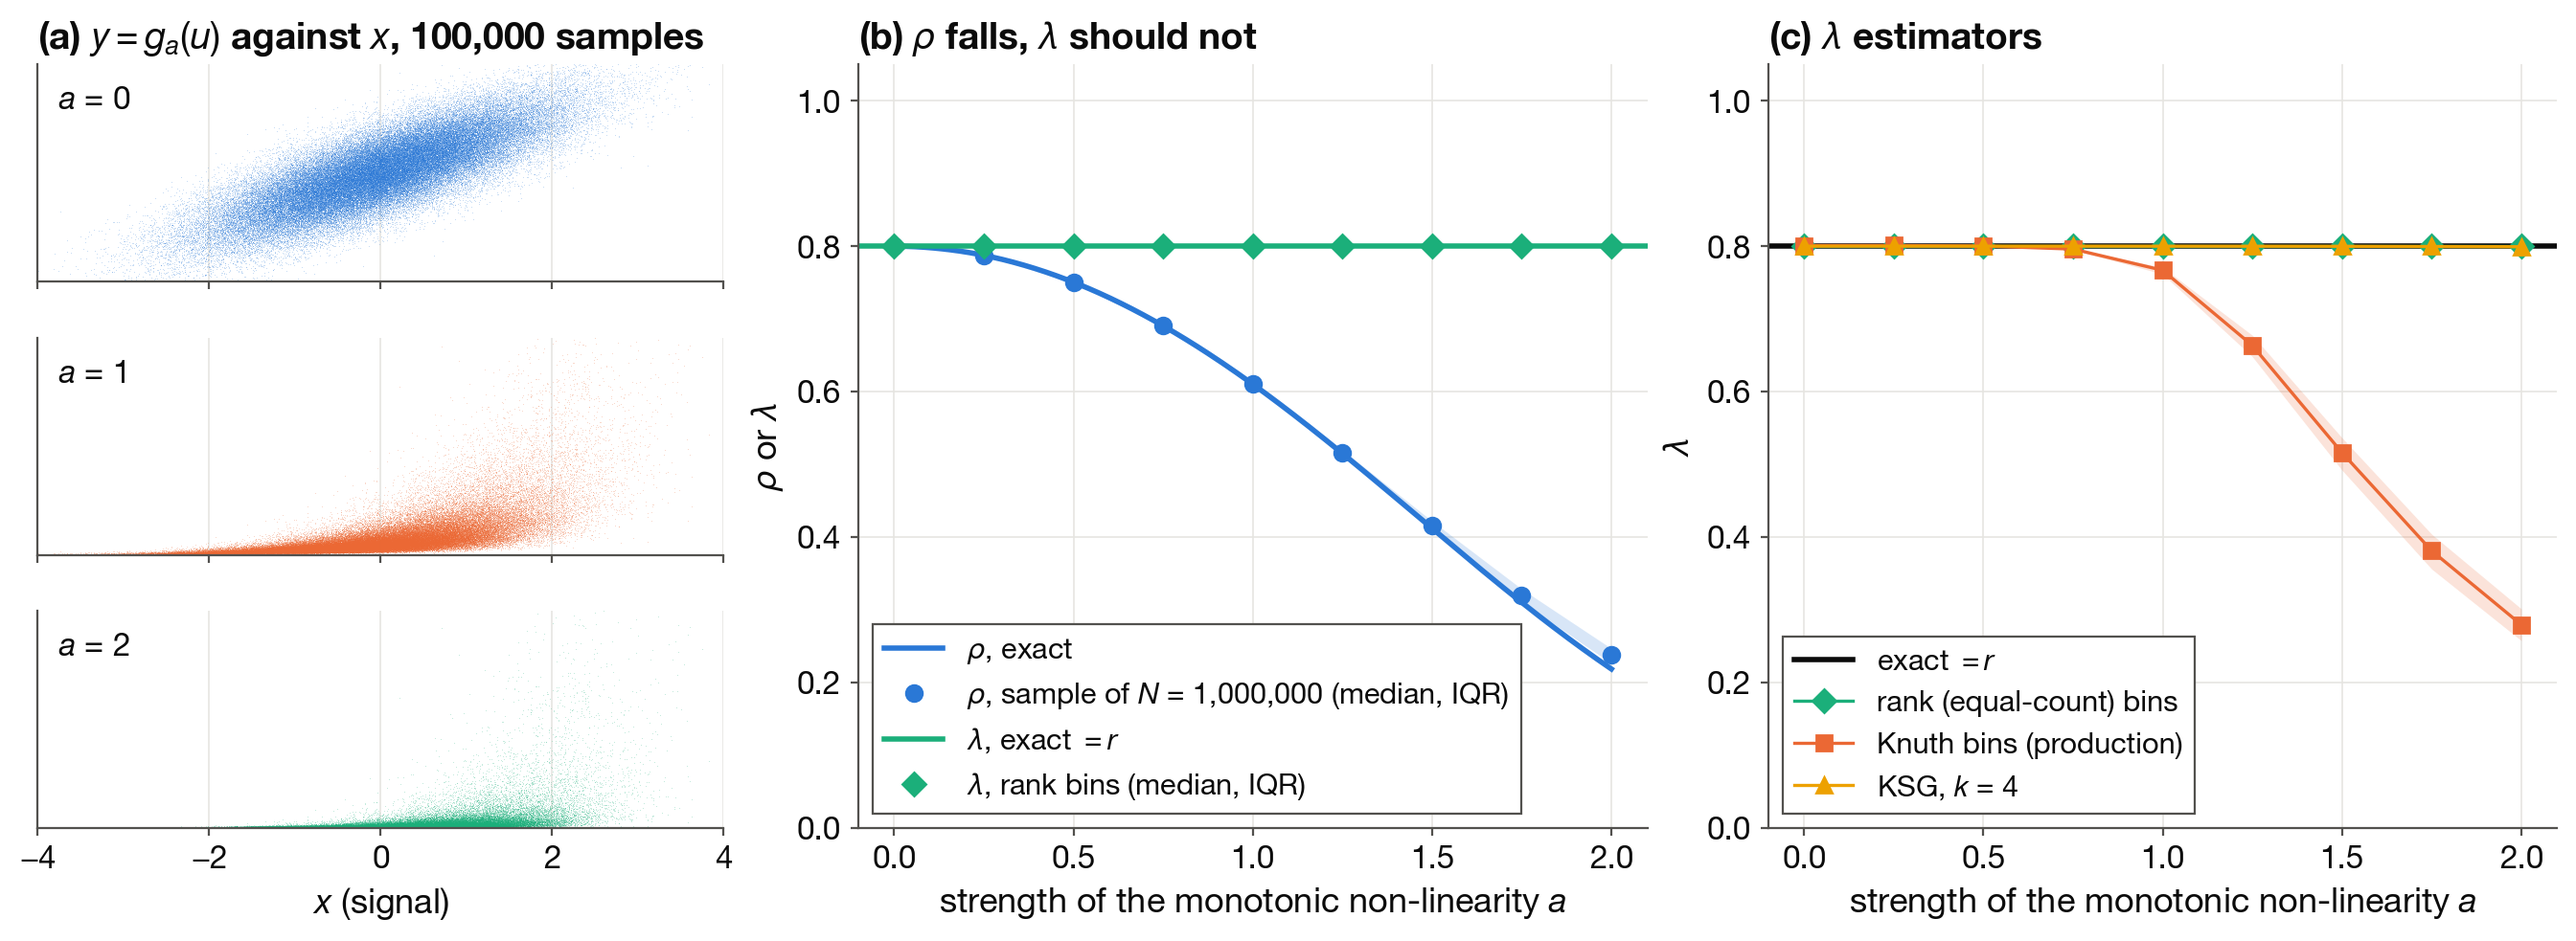
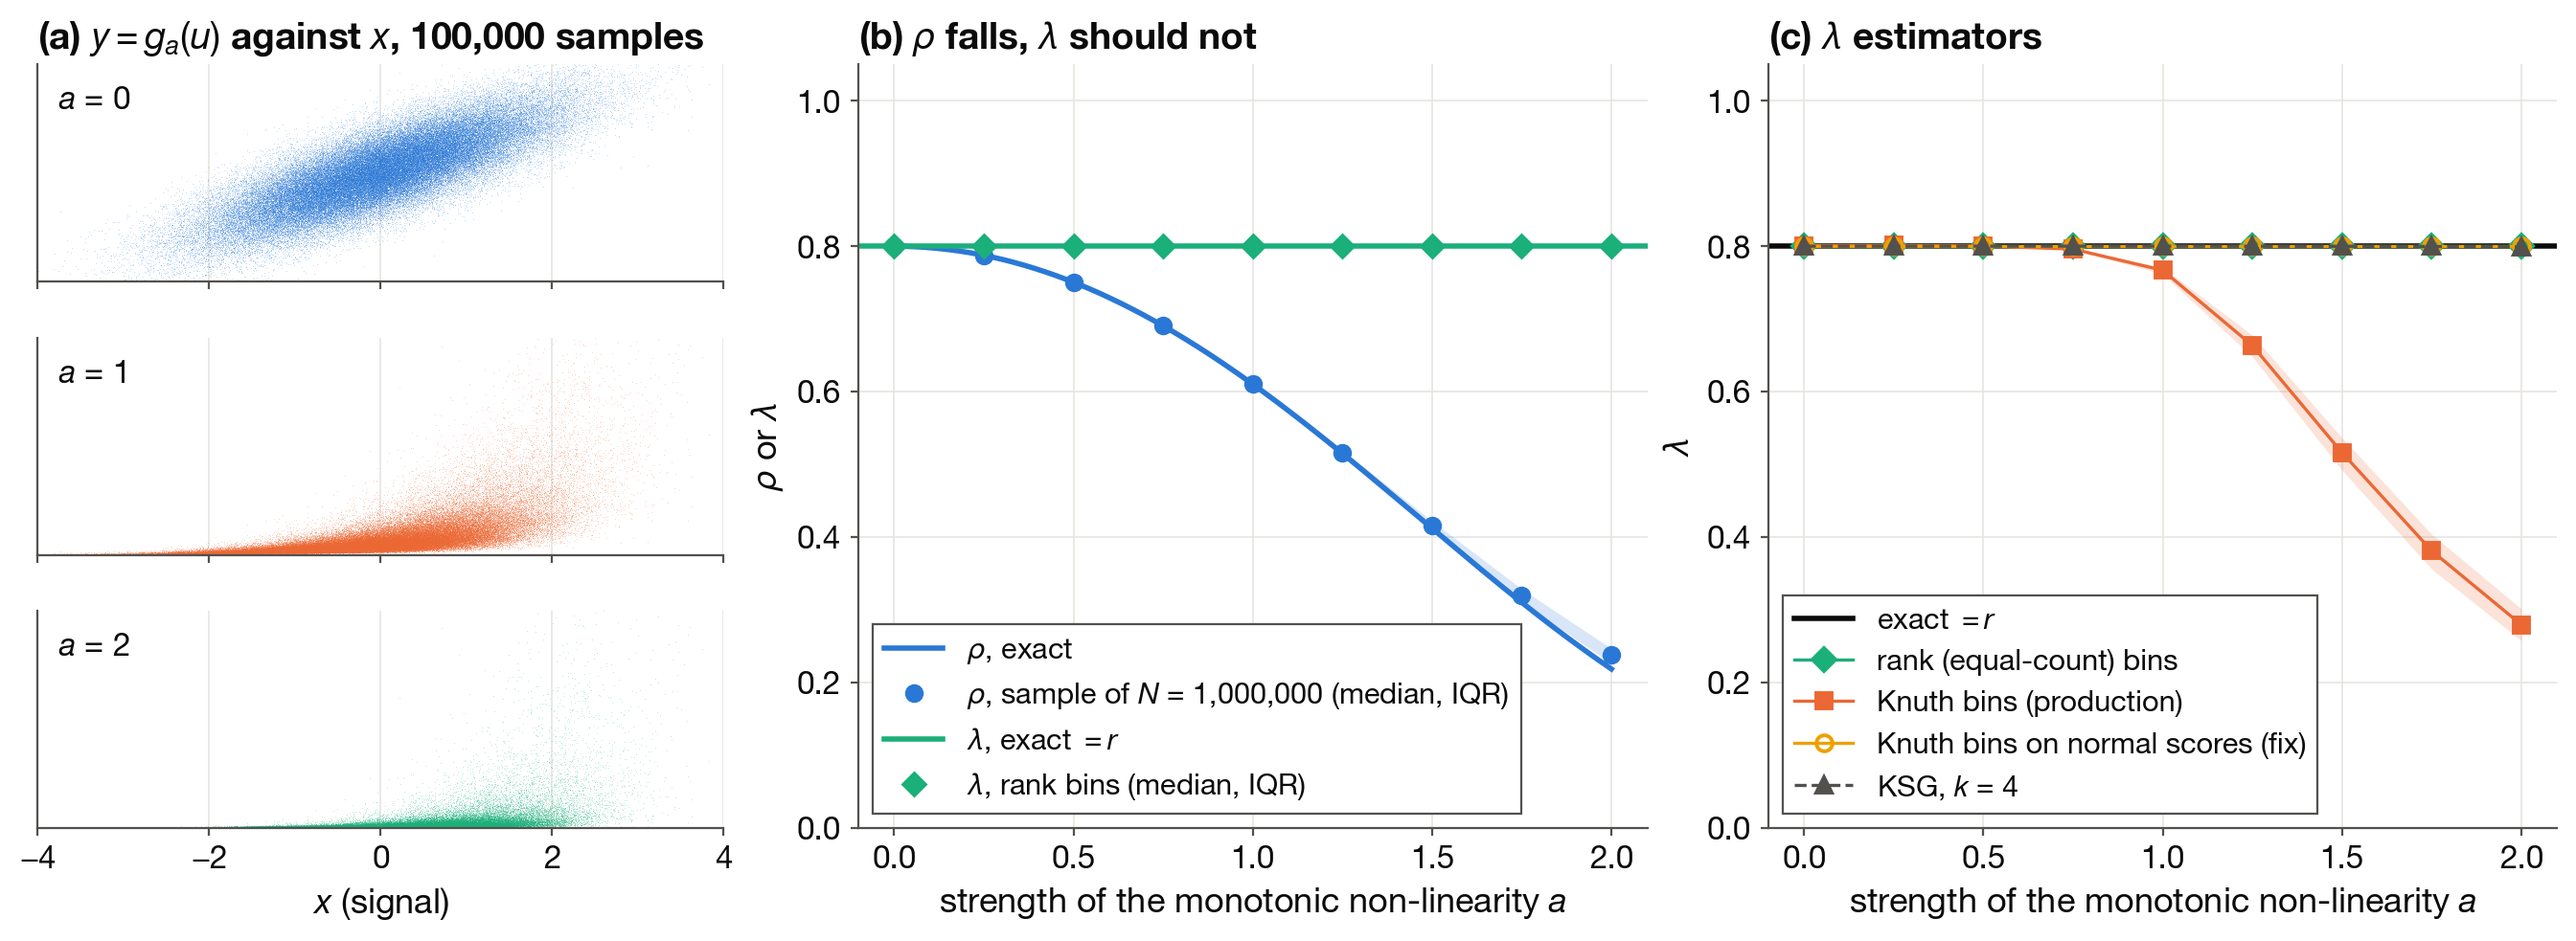
monotonic_demo: Knuth lambda on normal scores, the proposed fix, next to the production estimator
The production Knuth lambda after a rank transform of x and y to normal scores is exactly the
same at every a (0.801 at N = 1e6; 0.726 and never 0 at N = 51), against the production
0.80 -> 0.28 at N = 1e6 and 16-26% zeros at N = 51. Knuth on plain ranks picks one bin (lambda = 0).

Changed region(s): [[0.6872, 0.6409, 0.9059, 0.824], [0.6872, 0.2442, 0.9996, 0.2747], [0.6872, 0.824, 0.7185, 0.8545]]

diff --git a/scripts/monotonic_demo.py b/scripts/monotonic_demo.py
@@ -23,6 +23,12 @@ single bin for a variable in 14-28% of draws and lambda is then exactly 0.
                  only ranks, which g_a keeps, so it is the same number at every a (exactly flat)
     lambda Knuth the production estimator (jugaad, boot olmloo): plug-in MI in bits on equal-width
                  bins, Knuth's bin count for each variable on its own N values (cap min(KNUTH_MAX, N))
+    lambda Knuth, normal scores
+                 the production estimator after a rank transform of each variable to normal scores
+                 (Phi^-1 of (rank - 1/2)/N): Gaussian marginals, so Knuth's count is sensible and
+                 the estimate depends only on ranks (exactly the same at every a). The proposed fix.
+                 (Knuth on the plain ranks fails: a uniform histogram is best fitted by ONE bin, so
+                 lambda = 0 in every draw.)
     lambda KSG   infomeasure's Kraskov-Stoegbauer-Grassberger estimator, k = 4 (nats)
 No bias correction. Common random numbers: every a reuses the same x and z of a draw (seeded per
 draw, [seed, d]), so the curves move only with a. Points: medians over the draws; bands: 25-75%.
@@ -73,13 +79,26 @@ def lam_knuth(x, y, Bx):
     return float(J.lam_bits(J.mi_bits(x, y, (Bx, J.knuth_bins(y, cap)))))
 
 
+def normal_scores(v):
+    """Phi^-1((rank - 1/2) / N): the rank transform to a standard normal marginal."""
+    from scipy.special import ndtri
+    from scipy.stats import rankdata
+    return ndtri((rankdata(v) - 0.5) / v.size)
+
+
+def lam_knuth_ns(x, y):
+    """The production Knuth lambda on normal scores of x and y."""
+    xs, ys = normal_scores(x), normal_scores(y)
+    return lam_knuth(xs, ys, J.knuth_bins(xs, min(J.KNUTH_MAX, x.size)))
+
+
 def lam_ksg(x, y):
     import infomeasure as im
     I = im.mutual_information(x, y, approach="metric", k=4)          # nats
     return float(np.sqrt(1 - np.exp(-2 * max(I, 0.0))))
 
 
-KEYS = ("rho", "lam_rank", "lam_knuth", "lam_ksg")
+KEYS = ("rho", "lam_rank", "lam_knuth", "lam_knuth_ns", "lam_ksg")
 
 
 def draw_xu(n, r, seed, d):
@@ -95,7 +114,7 @@ def one(args):
     x, u = draw_xu(n, r, seed, d)
     y = g(u, a)
     return (np.corrcoef(x, y)[0, 1], lam_rank(x, y, E.n_bins(n)),
-            lam_knuth(x, y, J.knuth_bins(x, min(J.KNUTH_MAX, n))), lam_ksg(x, y))
+            lam_knuth(x, y, J.knuth_bins(x, min(J.KNUTH_MAX, n))), lam_knuth_ns(x, y), lam_ksg(x, y))
 
 
 def compute(draws, n, r, seed):
@@ -155,12 +174,15 @@ def figure(res, n, r, seed):
 
         ax = axs[2]
         ax.axhline(r, color=style.INK, lw=2, label="exact $= r$")
-        for k, c, m, lab in (("lam_rank", green, "D", "rank (equal-count) bins"),
-                             ("lam_knuth", orange, "s", "Knuth bins (production)"),
-                             ("lam_ksg", yellow, "^", "KSG, $k$ = 4")):
+        for k, c, m, ls, lab in (("lam_rank", green, "D", "-", "rank (equal-count) bins"),
+                                 ("lam_knuth", orange, "s", "-", "Knuth bins (production)"),
+                                 ("lam_knuth_ns", yellow, "o", "-",
+                                  "Knuth bins on normal scores (fix)"),
+                                 ("lam_ksg", style.MUTED, "^", "--", "KSG, $k$ = 4")):
             lo, md, hi = q(k)
             ax.fill_between(A, lo, hi, color=c, alpha=0.18, lw=0)
-            ax.plot(A, md, m + "-", color=c, ms=6, lw=1.2, label=lab)
+            ax.plot(A, md, m + ls, color=c, ms=6, lw=1.2, label=lab, mfc=c if k != "lam_knuth_ns"
+                    else "none", mew=1.4)
         zero = 100 * (res["lam_knuth"] <= 1e-9).mean(0)
         if zero.max() > 0:
             ax.text(0.98, 0.97, f"Knuth: $\\lambda$ = 0 in {zero.min():.0f}-{zero.max():.0f}% of "

diff --git a/scripts/tests/test_monotonic_demo.py b/scripts/tests/test_monotonic_demo.py
@@ -36,6 +36,15 @@ def test_rank_lambda_is_the_same_at_every_a():
     assert np.allclose(vals, vals[0])
 
 
+
+def test_knuth_on_normal_scores_is_the_same_at_every_a():
+    rng = np.random.default_rng(2)
+    x = rng.standard_normal(51)
+    u = 0.8 * x + 0.6 * rng.standard_normal(51)
+    vals = [M.lam_knuth_ns(x, M.g(u, a)) for a in M.A]
+    assert np.allclose(vals, vals[0]) and vals[0] > 0
+
+
 if __name__ == "__main__":
     for name, fn in list(globals().items()):
         if name.startswith("test_"):
